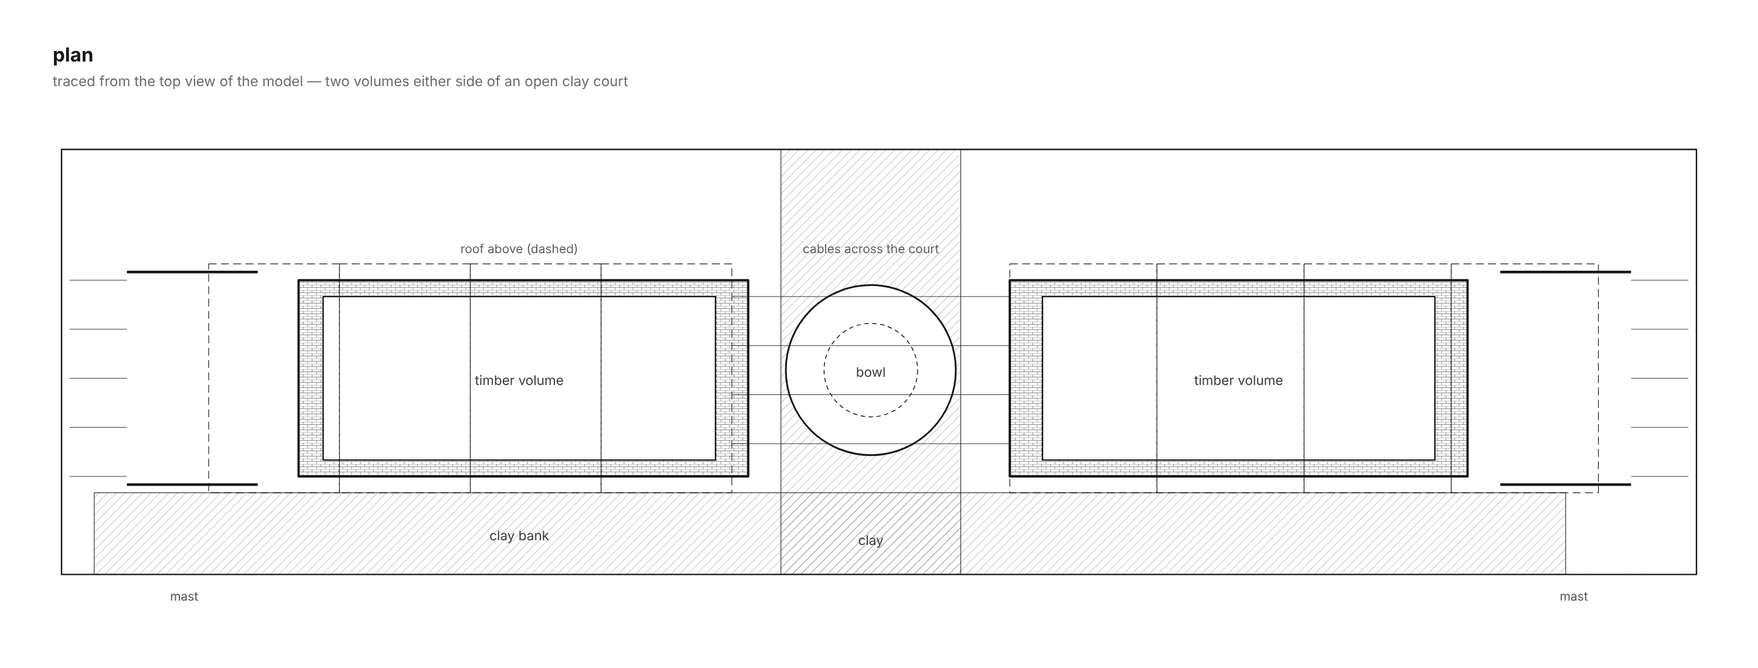
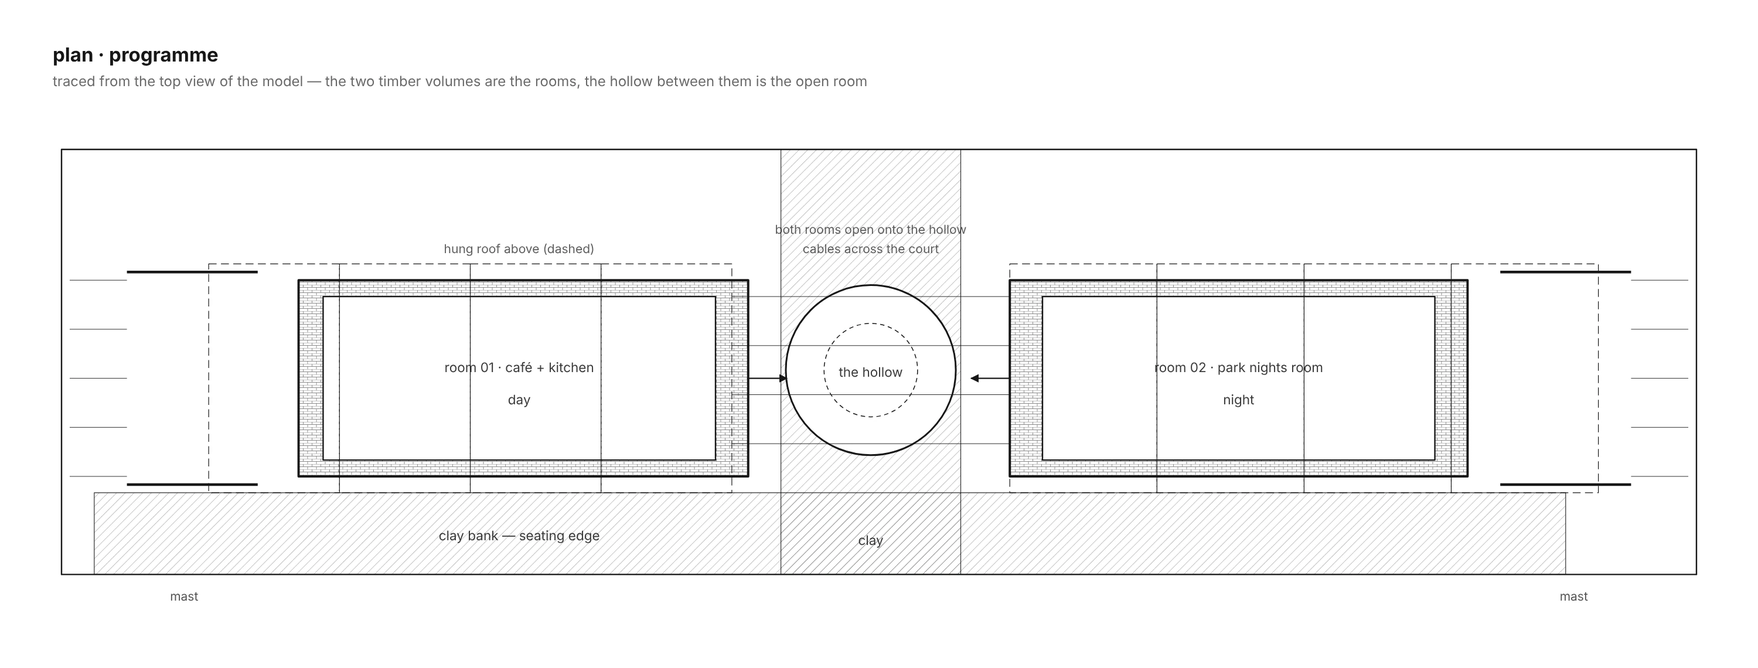
Serpentine: 'split ground' concept, rooms programme, idea + materials diagrams; stage2.live link on video
Claude-Session: https://claude.ai/code/session_01QY36YexSrz47H8ohRwWEfB

diff --git a/academic/index.html b/academic/index.html
@@ -1,3 +1,3 @@
 <!doctype html>
-<html lang="en"><head><meta charset="utf-8"><meta name="viewport" content="width=device-width,initial-scale=1"><title>Academic — Muhammad Nada</title><meta name="description" content="Academic projects by Muhammad Nada."><link rel="stylesheet" href="/projects.css?v=4"><meta name="copyright" content="© Muhammad Nada. All rights reserved."><meta name="author" content="Muhammad Nada"><script src="/guard.js" defer></script></head>
-<body class="projects-page" data-collection="academic"><div class="frame" aria-hidden="true"></div><header class="project-topbar"><a class="project-brand" href="/">Muhammad Nada</a><nav aria-label="Primary"><a href="/">Home</a><a href="/form/">Info</a><a id="archive-toggle" href="#archive">Archive</a></nav></header><main><aside class="project-sidebar"><a class="back-index" href="/">← index</a><ul class="project-list" id="project-index" aria-label="Academic projects"></ul><div class="project-meta"><h1 id="project-title"></h1><p id="project-type"></p><p id="project-medium"></p><p>Muhammad Nada</p></div><div class="project-description"><p id="project-description"></p><span class="project-count" id="project-counter"></span></div></aside><section class="project-main" aria-label="Academic project viewer"><nav class="project-scroller" aria-label="Browse three projects"><button id="previous-project" aria-label="Previous project">←</button><div class="scroller-track"><input id="project-slider" type="range" min="1" max="3" step="1" value="1" aria-label="Project selector"><button data-project="0" aria-label="Project 1">01</button><button data-project="1" aria-label="Project 2">02</button><button data-project="2" aria-label="Project 3">03</button></div><button id="next-project" aria-label="Next project">→</button></nav><figure class="project-sheet" aria-live="polite"><div class="project-placeholder"><span class="folio" id="folio"></span><p id="sheet-title"></p><small>project imagery to be added</small></div><figcaption>studio / selected work</figcaption></figure></section></main><div class="theme-controls" role="group" aria-label="Colour theme"><small>theme</small><div><button data-theme="blue" aria-label="Turquoise theme"></button><button data-theme="yellow" aria-label="Yellow theme"></button><button data-theme="red" aria-label="Red theme"></button><button data-theme="light" aria-label="Light theme" aria-pressed="true"></button></div></div><div class="ticker" aria-label="Site updates"><div>EIGHT SIDES <span lang="ja">八つの面</span> <bdi lang="ar">ثمانية أوجه</bdi> /// ARCHITECTURE <span lang="ja">建築</span> <bdi lang="ar">عمارة</bdi> /// FORM <span lang="ja">形</span> <bdi lang="ar">شكل</bdi> /// FUNCTION <span lang="ja">機能</span> <bdi lang="ar">وظيفة</bdi> /// LIGHT + SHADE <span lang="ja">光と影</span> <bdi lang="ar">ضوء وظل</bdi> /// THE SEA <span lang="ja">海</span> <bdi lang="ar">البحر</bdi> /// CLAY + GLASS <span lang="ja">土と硝子</span> <bdi lang="ar">طين وزجاج</bdi> /// BALANCE <span lang="ja">均衡</span> <bdi lang="ar">توازن</bdi> /// REST <span lang="ja">休息</span> <bdi lang="ar">راحة</bdi> /// CAIRO · LONDON · BOSTON <span lang="ja">カイロ・ロンドン・ボストン</span> <bdi lang="ar">القاهرة · لندن · بوسطن</bdi> /// ALWAYS IN PROGRESS <span lang="ja">未完成</span> <bdi lang="ar">قيد الإنجاز</bdi> /// EIGHT SIDES <span lang="ja">八つの面</span> <bdi lang="ar">ثمانية أوجه</bdi> /// ARCHITECTURE <span lang="ja">建築</span> <bdi lang="ar">عمارة</bdi> /// FORM <span lang="ja">形</span> <bdi lang="ar">شكل</bdi> /// FUNCTION <span lang="ja">機能</span> <bdi lang="ar">وظيفة</bdi> /// LIGHT + SHADE <span lang="ja">光と影</span> <bdi lang="ar">ضوء وظل</bdi> /// THE SEA <span lang="ja">海</span> <bdi lang="ar">البحر</bdi> /// CLAY + GLASS <span lang="ja">土と硝子</span> <bdi lang="ar">طين وزجاج</bdi> /// BALANCE <span lang="ja">均衡</span> <bdi lang="ar">توازن</bdi> /// REST <span lang="ja">休息</span> <bdi lang="ar">راحة</bdi> /// CAIRO · LONDON · BOSTON <span lang="ja">カイロ・ロンドン・ボストン</span> <bdi lang="ar">القاهرة · لندن · بوسطن</bdi> /// ALWAYS IN PROGRESS <span lang="ja">未完成</span> <bdi lang="ar">قيد الإنجاز</bdi> /// </div></div><button class="sound" id="sound" aria-pressed="false" aria-label="Toggle interaction sounds"><span>▂ ▄ ▆</span><small>sound off</small></button><dialog id="archive"><button id="archive-close" class="archive-close" aria-label="Close archive">[ close × ]</button><h2>archive</h2><div class="archive-links"><a href="#project-1">academic / 01</a><a href="#project-2">academic / 02</a><a href="#project-3">academic / 03 serpentine pavilion</a></div></dialog><script type="module" src="/projects.mjs?v=4"></script></body></html>
+<html lang="en"><head><meta charset="utf-8"><meta name="viewport" content="width=device-width,initial-scale=1"><title>Academic — Muhammad Nada</title><meta name="description" content="Academic projects by Muhammad Nada."><link rel="stylesheet" href="/projects.css?v=5"><meta name="copyright" content="© Muhammad Nada. All rights reserved."><meta name="author" content="Muhammad Nada"><script src="/guard.js" defer></script></head>
+<body class="projects-page" data-collection="academic"><div class="frame" aria-hidden="true"></div><header class="project-topbar"><a class="project-brand" href="/">Muhammad Nada</a><nav aria-label="Primary"><a href="/">Home</a><a href="/form/">Info</a><a id="archive-toggle" href="#archive">Archive</a></nav></header><main><aside class="project-sidebar"><a class="back-index" href="/">← index</a><ul class="project-list" id="project-index" aria-label="Academic projects"></ul><div class="project-meta"><h1 id="project-title"></h1><p id="project-type"></p><p id="project-medium"></p><p>Muhammad Nada</p></div><div class="project-description"><p id="project-description"></p><span class="project-count" id="project-counter"></span></div></aside><section class="project-main" aria-label="Academic project viewer"><nav class="project-scroller" aria-label="Browse three projects"><button id="previous-project" aria-label="Previous project">←</button><div class="scroller-track"><input id="project-slider" type="range" min="1" max="3" step="1" value="1" aria-label="Project selector"><button data-project="0" aria-label="Project 1">01</button><button data-project="1" aria-label="Project 2">02</button><button data-project="2" aria-label="Project 3">03</button></div><button id="next-project" aria-label="Next project">→</button></nav><figure class="project-sheet" aria-live="polite"><div class="project-placeholder"><span class="folio" id="folio"></span><p id="sheet-title"></p><small>project imagery to be added</small></div><figcaption>studio / selected work</figcaption></figure></section></main><div class="theme-controls" role="group" aria-label="Colour theme"><small>theme</small><div><button data-theme="blue" aria-label="Turquoise theme"></button><button data-theme="yellow" aria-label="Yellow theme"></button><button data-theme="red" aria-label="Red theme"></button><button data-theme="light" aria-label="Light theme" aria-pressed="true"></button></div></div><div class="ticker" aria-label="Site updates"><div>EIGHT SIDES <span lang="ja">八つの面</span> <bdi lang="ar">ثمانية أوجه</bdi> /// ARCHITECTURE <span lang="ja">建築</span> <bdi lang="ar">عمارة</bdi> /// FORM <span lang="ja">形</span> <bdi lang="ar">شكل</bdi> /// FUNCTION <span lang="ja">機能</span> <bdi lang="ar">وظيفة</bdi> /// LIGHT + SHADE <span lang="ja">光と影</span> <bdi lang="ar">ضوء وظل</bdi> /// THE SEA <span lang="ja">海</span> <bdi lang="ar">البحر</bdi> /// CLAY + GLASS <span lang="ja">土と硝子</span> <bdi lang="ar">طين وزجاج</bdi> /// BALANCE <span lang="ja">均衡</span> <bdi lang="ar">توازن</bdi> /// REST <span lang="ja">休息</span> <bdi lang="ar">راحة</bdi> /// CAIRO · LONDON · BOSTON <span lang="ja">カイロ・ロンドン・ボストン</span> <bdi lang="ar">القاهرة · لندن · بوسطن</bdi> /// ALWAYS IN PROGRESS <span lang="ja">未完成</span> <bdi lang="ar">قيد الإنجاز</bdi> /// EIGHT SIDES <span lang="ja">八つの面</span> <bdi lang="ar">ثمانية أوجه</bdi> /// ARCHITECTURE <span lang="ja">建築</span> <bdi lang="ar">عمارة</bdi> /// FORM <span lang="ja">形</span> <bdi lang="ar">شكل</bdi> /// FUNCTION <span lang="ja">機能</span> <bdi lang="ar">وظيفة</bdi> /// LIGHT + SHADE <span lang="ja">光と影</span> <bdi lang="ar">ضوء وظل</bdi> /// THE SEA <span lang="ja">海</span> <bdi lang="ar">البحر</bdi> /// CLAY + GLASS <span lang="ja">土と硝子</span> <bdi lang="ar">طين وزجاج</bdi> /// BALANCE <span lang="ja">均衡</span> <bdi lang="ar">توازن</bdi> /// REST <span lang="ja">休息</span> <bdi lang="ar">راحة</bdi> /// CAIRO · LONDON · BOSTON <span lang="ja">カイロ・ロンドン・ボストン</span> <bdi lang="ar">القاهرة · لندن · بوسطن</bdi> /// ALWAYS IN PROGRESS <span lang="ja">未完成</span> <bdi lang="ar">قيد الإنجاز</bdi> /// </div></div><button class="sound" id="sound" aria-pressed="false" aria-label="Toggle interaction sounds"><span>▂ ▄ ▆</span><small>sound off</small></button><dialog id="archive"><button id="archive-close" class="archive-close" aria-label="Close archive">[ close × ]</button><h2>archive</h2><div class="archive-links"><a href="#project-1">academic / 01</a><a href="#project-2">academic / 02</a><a href="#project-3">academic / 03 serpentine pavilion</a></div></dialog><script type="module" src="/projects.mjs?v=5"></script></body></html>

diff --git a/initiatives/alchemy/index.html b/initiatives/alchemy/index.html
@@ -1,3 +1,3 @@
 <!doctype html>
-<html lang="en"><head><meta charset="utf-8"><meta name="viewport" content="width=device-width,initial-scale=1"><title>Alchemy — Initiatives — Muhammad Nada</title><meta name="description" content="Initiatives, internships and collaborations by Muhammad Nada."><link rel="stylesheet" href="/projects.css?v=4"><meta name="copyright" content="© Muhammad Nada. All rights reserved."><meta name="author" content="Muhammad Nada"><script src="/guard.js" defer></script></head>
-<body class="projects-page" data-collection="initiatives"><div class="frame" aria-hidden="true"></div><header class="project-topbar"><a class="project-brand" href="/initiatives/">Muhammad Nada</a><nav aria-label="Primary"><a href="/">Home</a><a href="/form/">Info</a><a id="archive-toggle" href="#archive">Archive</a></nav></header><main><aside class="project-sidebar"><a class="back-index" href="/initiatives/">← initiatives</a><ul class="project-list" id="project-index" aria-label="Initiatives"></ul><div class="project-meta"><h1 id="project-title"></h1><p id="project-type"></p><p id="project-medium"></p><p>Muhammad Nada</p></div><div class="project-description"><p id="project-description"></p><span class="project-count" id="project-counter"></span></div></aside><section class="project-main" aria-label="Initiative viewer"><nav class="project-scroller" aria-label="Browse three projects"><button id="previous-project" aria-label="Previous project">←</button><div class="scroller-track"><input id="project-slider" type="range" min="1" max="3" step="1" value="1" aria-label="Project selector"><button data-project="0" aria-label="Project 1">01</button><button data-project="1" aria-label="Project 2">02</button><button data-project="2" aria-label="Project 3">03</button></div><button id="next-project" aria-label="Next project">→</button></nav><figure class="project-sheet" aria-live="polite"><div class="project-placeholder"><span class="folio" id="folio"></span><p id="sheet-title"></p><small>project imagery to be added</small></div><figcaption>initiatives / selected work</figcaption></figure></section></main><div class="theme-controls" role="group" aria-label="Colour theme"><small>theme</small><div><button data-theme="blue" aria-label="Turquoise theme"></button><button data-theme="yellow" aria-label="Yellow theme"></button><button data-theme="red" aria-label="Red theme"></button><button data-theme="light" aria-label="Light theme" aria-pressed="true"></button></div></div><div class="ticker" aria-label="Site updates"><div>EIGHT SIDES <span lang="ja">八つの面</span> <bdi lang="ar">ثمانية أوجه</bdi> /// ARCHITECTURE <span lang="ja">建築</span> <bdi lang="ar">عمارة</bdi> /// FORM <span lang="ja">形</span> <bdi lang="ar">شكل</bdi> /// FUNCTION <span lang="ja">機能</span> <bdi lang="ar">وظيفة</bdi> /// LIGHT + SHADE <span lang="ja">光と影</span> <bdi lang="ar">ضوء وظل</bdi> /// THE SEA <span lang="ja">海</span> <bdi lang="ar">البحر</bdi> /// CLAY + GLASS <span lang="ja">土と硝子</span> <bdi lang="ar">طين وزجاج</bdi> /// BALANCE <span lang="ja">均衡</span> <bdi lang="ar">توازن</bdi> /// REST <span lang="ja">休息</span> <bdi lang="ar">راحة</bdi> /// CAIRO · LONDON · BOSTON <span lang="ja">カイロ・ロンドン・ボストン</span> <bdi lang="ar">القاهرة · لندن · بوسطن</bdi> /// ALWAYS IN PROGRESS <span lang="ja">未完成</span> <bdi lang="ar">قيد الإنجاز</bdi> /// EIGHT SIDES <span lang="ja">八つの面</span> <bdi lang="ar">ثمانية أوجه</bdi> /// ARCHITECTURE <span lang="ja">建築</span> <bdi lang="ar">عمارة</bdi> /// FORM <span lang="ja">形</span> <bdi lang="ar">شكل</bdi> /// FUNCTION <span lang="ja">機能</span> <bdi lang="ar">وظيفة</bdi> /// LIGHT + SHADE <span lang="ja">光と影</span> <bdi lang="ar">ضوء وظل</bdi> /// THE SEA <span lang="ja">海</span> <bdi lang="ar">البحر</bdi> /// CLAY + GLASS <span lang="ja">土と硝子</span> <bdi lang="ar">طين وزجاج</bdi> /// BALANCE <span lang="ja">均衡</span> <bdi lang="ar">توازن</bdi> /// REST <span lang="ja">休息</span> <bdi lang="ar">راحة</bdi> /// CAIRO · LONDON · BOSTON <span lang="ja">カイロ・ロンドン・ボストン</span> <bdi lang="ar">القاهرة · لندن · بوسطن</bdi> /// ALWAYS IN PROGRESS <span lang="ja">未完成</span> <bdi lang="ar">قيد الإنجاز</bdi> /// </div></div><button class="sound" id="sound" aria-pressed="false" aria-label="Toggle interaction sounds"><span>▂ ▄ ▆</span><small>sound off</small></button><dialog id="archive"><button id="archive-close" class="archive-close" aria-label="Close archive">[ close × ]</button><h2>archive</h2><div class="archive-links"><a href="#project-1">initiatives / alchemy — mn residence</a></div></dialog><script type="module" src="/projects.mjs?v=4"></script></body></html>
+<html lang="en"><head><meta charset="utf-8"><meta name="viewport" content="width=device-width,initial-scale=1"><title>Alchemy — Initiatives — Muhammad Nada</title><meta name="description" content="Initiatives, internships and collaborations by Muhammad Nada."><link rel="stylesheet" href="/projects.css?v=5"><meta name="copyright" content="© Muhammad Nada. All rights reserved."><meta name="author" content="Muhammad Nada"><script src="/guard.js" defer></script></head>
+<body class="projects-page" data-collection="initiatives"><div class="frame" aria-hidden="true"></div><header class="project-topbar"><a class="project-brand" href="/initiatives/">Muhammad Nada</a><nav aria-label="Primary"><a href="/">Home</a><a href="/form/">Info</a><a id="archive-toggle" href="#archive">Archive</a></nav></header><main><aside class="project-sidebar"><a class="back-index" href="/initiatives/">← initiatives</a><ul class="project-list" id="project-index" aria-label="Initiatives"></ul><div class="project-meta"><h1 id="project-title"></h1><p id="project-type"></p><p id="project-medium"></p><p>Muhammad Nada</p></div><div class="project-description"><p id="project-description"></p><span class="project-count" id="project-counter"></span></div></aside><section class="project-main" aria-label="Initiative viewer"><nav class="project-scroller" aria-label="Browse three projects"><button id="previous-project" aria-label="Previous project">←</button><div class="scroller-track"><input id="project-slider" type="range" min="1" max="3" step="1" value="1" aria-label="Project selector"><button data-project="0" aria-label="Project 1">01</button><button data-project="1" aria-label="Project 2">02</button><button data-project="2" aria-label="Project 3">03</button></div><button id="next-project" aria-label="Next project">→</button></nav><figure class="project-sheet" aria-live="polite"><div class="project-placeholder"><span class="folio" id="folio"></span><p id="sheet-title"></p><small>project imagery to be added</small></div><figcaption>initiatives / selected work</figcaption></figure></section></main><div class="theme-controls" role="group" aria-label="Colour theme"><small>theme</small><div><button data-theme="blue" aria-label="Turquoise theme"></button><button data-theme="yellow" aria-label="Yellow theme"></button><button data-theme="red" aria-label="Red theme"></button><button data-theme="light" aria-label="Light theme" aria-pressed="true"></button></div></div><div class="ticker" aria-label="Site updates"><div>EIGHT SIDES <span lang="ja">八つの面</span> <bdi lang="ar">ثمانية أوجه</bdi> /// ARCHITECTURE <span lang="ja">建築</span> <bdi lang="ar">عمارة</bdi> /// FORM <span lang="ja">形</span> <bdi lang="ar">شكل</bdi> /// FUNCTION <span lang="ja">機能</span> <bdi lang="ar">وظيفة</bdi> /// LIGHT + SHADE <span lang="ja">光と影</span> <bdi lang="ar">ضوء وظل</bdi> /// THE SEA <span lang="ja">海</span> <bdi lang="ar">البحر</bdi> /// CLAY + GLASS <span lang="ja">土と硝子</span> <bdi lang="ar">طين وزجاج</bdi> /// BALANCE <span lang="ja">均衡</span> <bdi lang="ar">توازن</bdi> /// REST <span lang="ja">休息</span> <bdi lang="ar">راحة</bdi> /// CAIRO · LONDON · BOSTON <span lang="ja">カイロ・ロンドン・ボストン</span> <bdi lang="ar">القاهرة · لندن · بوسطن</bdi> /// ALWAYS IN PROGRESS <span lang="ja">未完成</span> <bdi lang="ar">قيد الإنجاز</bdi> /// EIGHT SIDES <span lang="ja">八つの面</span> <bdi lang="ar">ثمانية أوجه</bdi> /// ARCHITECTURE <span lang="ja">建築</span> <bdi lang="ar">عمارة</bdi> /// FORM <span lang="ja">形</span> <bdi lang="ar">شكل</bdi> /// FUNCTION <span lang="ja">機能</span> <bdi lang="ar">وظيفة</bdi> /// LIGHT + SHADE <span lang="ja">光と影</span> <bdi lang="ar">ضوء وظل</bdi> /// THE SEA <span lang="ja">海</span> <bdi lang="ar">البحر</bdi> /// CLAY + GLASS <span lang="ja">土と硝子</span> <bdi lang="ar">طين وزجاج</bdi> /// BALANCE <span lang="ja">均衡</span> <bdi lang="ar">توازن</bdi> /// REST <span lang="ja">休息</span> <bdi lang="ar">راحة</bdi> /// CAIRO · LONDON · BOSTON <span lang="ja">カイロ・ロンドン・ボストン</span> <bdi lang="ar">القاهرة · لندن · بوسطن</bdi> /// ALWAYS IN PROGRESS <span lang="ja">未完成</span> <bdi lang="ar">قيد الإنجاز</bdi> /// </div></div><button class="sound" id="sound" aria-pressed="false" aria-label="Toggle interaction sounds"><span>▂ ▄ ▆</span><small>sound off</small></button><dialog id="archive"><button id="archive-close" class="archive-close" aria-label="Close archive">[ close × ]</button><h2>archive</h2><div class="archive-links"><a href="#project-1">initiatives / alchemy — mn residence</a></div></dialog><script type="module" src="/projects.mjs?v=5"></script></body></html>

diff --git a/index.html b/index.html
@@ -1,6 +1,6 @@
 <!doctype html>
 <html lang="en">
-<head><meta charset="utf-8"><meta name="viewport" content="width=device-width,initial-scale=1"><meta name="theme-color" content="#fafaf8"><title>Muhammad Nada — architecture, design & experiments</title><meta name="description" content="Muhammad Nada's personal space for architecture, design, Ferrum and experiments. Eight sides, one ongoing practice."><link rel="stylesheet" href="style.css?v=10"><meta name="copyright" content="© Muhammad Nada. All rights reserved."><meta name="author" content="Muhammad Nada"><script src="/guard.js" defer></script></head>
+<head><meta charset="utf-8"><meta name="viewport" content="width=device-width,initial-scale=1"><meta name="theme-color" content="#fafaf8"><title>Muhammad Nada — architecture, design & experiments</title><meta name="description" content="Muhammad Nada's personal space for architecture, design, Ferrum and experiments. Eight sides, one ongoing practice."><link rel="stylesheet" href="style.css?v=11"><meta name="copyright" content="© Muhammad Nada. All rights reserved."><meta name="author" content="Muhammad Nada"><script src="/guard.js" defer></script></head>
 <body>
 <div class="frame" aria-hidden="true"></div>
 <main>
@@ -20,6 +20,6 @@
 <div class="ticker" aria-label="Site updates"><div>EIGHT SIDES <span lang="ja">八つの面</span> <bdi lang="ar">ثمانية أوجه</bdi> /// ARCHITECTURE <span lang="ja">建築</span> <bdi lang="ar">عمارة</bdi> /// FORM <span lang="ja">形</span> <bdi lang="ar">شكل</bdi> /// FUNCTION <span lang="ja">機能</span> <bdi lang="ar">وظيفة</bdi> /// LIGHT + SHADE <span lang="ja">光と影</span> <bdi lang="ar">ضوء وظل</bdi> /// THE SEA <span lang="ja">海</span> <bdi lang="ar">البحر</bdi> /// CLAY + GLASS <span lang="ja">土と硝子</span> <bdi lang="ar">طين وزجاج</bdi> /// BALANCE <span lang="ja">均衡</span> <bdi lang="ar">توازن</bdi> /// REST <span lang="ja">休息</span> <bdi lang="ar">راحة</bdi> /// CAIRO · LONDON · BOSTON <span lang="ja">カイロ・ロンドン・ボストン</span> <bdi lang="ar">القاهرة · لندن · بوسطن</bdi> /// ALWAYS IN PROGRESS <span lang="ja">未完成</span> <bdi lang="ar">قيد الإنجاز</bdi> /// EIGHT SIDES <span lang="ja">八つの面</span> <bdi lang="ar">ثمانية أوجه</bdi> /// ARCHITECTURE <span lang="ja">建築</span> <bdi lang="ar">عمارة</bdi> /// FORM <span lang="ja">形</span> <bdi lang="ar">شكل</bdi> /// FUNCTION <span lang="ja">機能</span> <bdi lang="ar">وظيفة</bdi> /// LIGHT + SHADE <span lang="ja">光と影</span> <bdi lang="ar">ضوء وظل</bdi> /// THE SEA <span lang="ja">海</span> <bdi lang="ar">البحر</bdi> /// CLAY + GLASS <span lang="ja">土と硝子</span> <bdi lang="ar">طين وزجاج</bdi> /// BALANCE <span lang="ja">均衡</span> <bdi lang="ar">توازن</bdi> /// REST <span lang="ja">休息</span> <bdi lang="ar">راحة</bdi> /// CAIRO · LONDON · BOSTON <span lang="ja">カイロ・ロンドン・ボストン</span> <bdi lang="ar">القاهرة · لندن · بوسطن</bdi> /// ALWAYS IN PROGRESS <span lang="ja">未完成</span> <bdi lang="ar">قيد الإنجاز</bdi> /// </div></div>
 <button class="sound" id="sound" aria-pressed="false" aria-label="Toggle interaction sounds"><span>▂ ▄ ▆</span><small>sound off</small></button>
 <dialog id="detail"><button class="close" aria-label="Close section">[ close × ]</button><span id="detail-number"></span><h2 id="detail-title"></h2><div id="detail-body"></div><div class="dialog-nav"><button id="prev-section">← previous</button><button id="next-section">next →</button></div></dialog>
-<dialog id="stage-two" aria-label="Function — El Gouna"><div class="video-header"><span>Function / El Gouna</span><button id="close-video" aria-label="Close video">[ close × ]</button></div><video id="trip-video" controls playsinline preload="none" aria-label="El Gouna: fishing, wakeboarding, camping and spearfishing"><source src="assets/el-gouna.mp4" type="video/mp4">Your browser does not support this video.</video><p class="video-caption">fishing / wakeboarding / camping / spearfishing</p><p id="video-error" hidden>The video could not load. <a href="assets/el-gouna.mp4">Open the film directly ↗</a></p></dialog>
+<dialog id="stage-two" aria-label="Function — El Gouna"><div class="video-header"><span>Function / El Gouna</span><span class="video-actions"><a class="stage-link" href="https://stage2.live/" target="_blank" rel="noopener noreferrer">stage2.live ↗</a><button id="close-video" aria-label="Close video">[ close × ]</button></span></div><video id="trip-video" controls playsinline preload="none" aria-label="El Gouna: fishing, wakeboarding, camping and spearfishing"><source src="assets/el-gouna.mp4" type="video/mp4">Your browser does not support this video.</video><p class="video-caption">fishing / wakeboarding / camping / spearfishing</p><p id="video-error" hidden>The video could not load. <a href="assets/el-gouna.mp4">Open the film directly ↗</a></p></dialog>
 <script type="module" src="main.mjs?v=14"></script>
 </body></html>

diff --git a/projects.css b/projects.css
@@ -13,3 +13,4 @@ img{-webkit-user-drag:none;user-select:none;-webkit-touch-callout:none}
 
 .reel-view{position:absolute;inset:0;overflow-y:auto;overflow-x:hidden;background:#fff;scroll-behavior:smooth;scrollbar-width:thin}.reel{height:58%;min-height:220px;overflow:hidden;position:relative}.reel-track{display:flex;height:100%;width:max-content;padding:16px 0;animation:reel 160s linear infinite;will-change:transform}.reel-track img{height:100%;width:auto;display:block;margin-right:12px;user-select:none;-webkit-user-drag:none}.reel:hover .reel-track{animation-play-state:paused}@keyframes reel{to{transform:translateX(-50%)}}.reel-hint{height:38px;display:flex;align-items:center;justify-content:center;font-size:9px;color:#9c9c98;cursor:pointer;letter-spacing:.04em}.reel-hint:hover{color:var(--ink)}.diagrams{padding:6px 5% 48px;border-top:1px solid #efefec}.diagrams figure{margin:26px 0 0}.diagrams img{width:100%;height:auto;display:block}.reel-view~figcaption{display:none}@media(prefers-reduced-motion:reduce){.reel-track{animation:none}.reel{overflow-x:auto}}
 .stack-view{padding:18px 4% 40px}.stack-view figure{margin:0 0 30px}.stack-view img{width:100%;height:auto;display:block}.stack-view figcaption{position:static!important;margin-top:8px;font-size:9px;color:#9c9c98}
+.idea{display:grid;grid-template-columns:repeat(2,minmax(0,1fr));gap:22px 40px;padding:30px 5% 34px;border-top:1px solid #efefec;font-family:"Helvetica Neue",Helvetica,Arial,sans-serif;color:#171817}.idea h3{margin:0 0 6px;font-size:12px;font-weight:700}.idea p{margin:0;font-size:11.5px;line-height:1.6;color:#555}@media(max-width:600px){.idea{grid-template-columns:1fr}}

diff --git a/style.css b/style.css
@@ -26,3 +26,5 @@ dialog.card .close{font-size:10px}
 .copyright .lit{display:block;font-size:9px;margin-top:3px;opacity:.75}
 .ticker{display:none!important}
 img{-webkit-user-drag:none;user-select:none;-webkit-touch-callout:none}
+
+.video-actions{display:flex;gap:10px;align-items:center;pointer-events:auto}.stage-link{color:#fff;text-decoration:none;background:#1119;border:1px solid #ffffff50;padding:7px 12px;font-size:12px}.stage-link:hover{background:#fff;color:#111}
